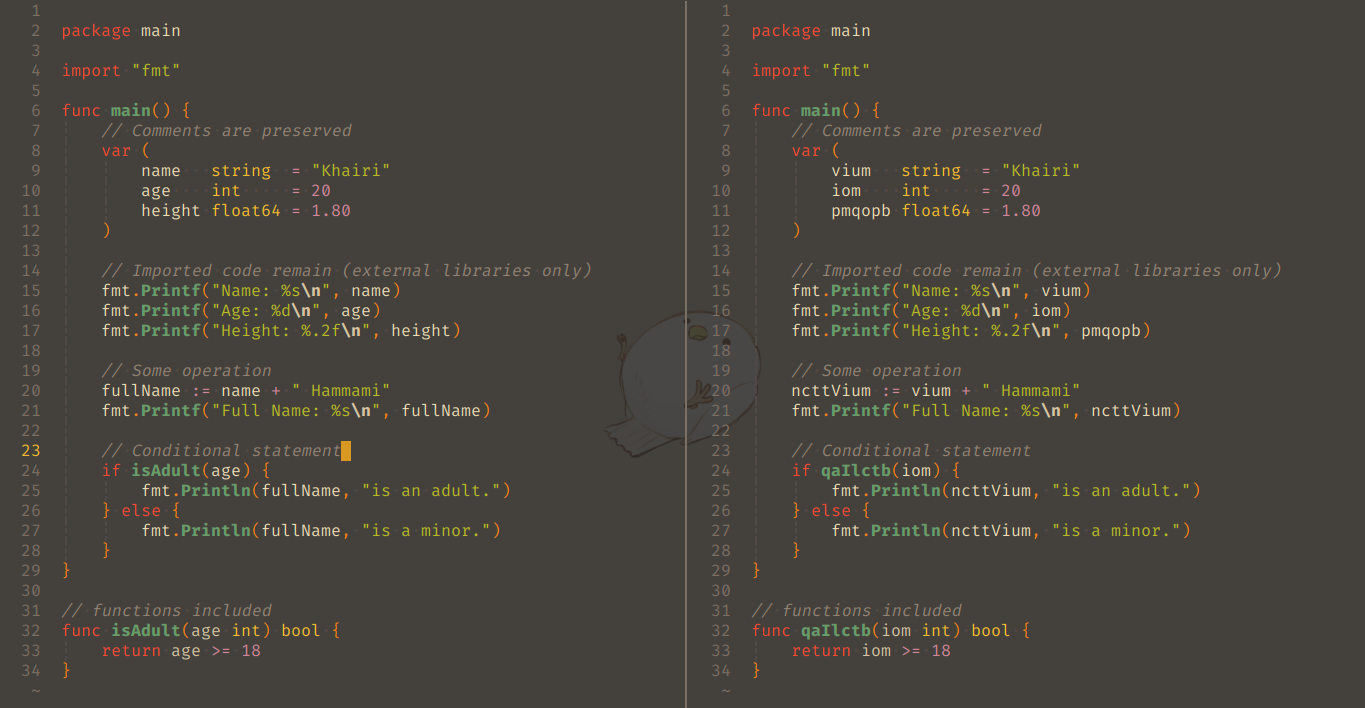
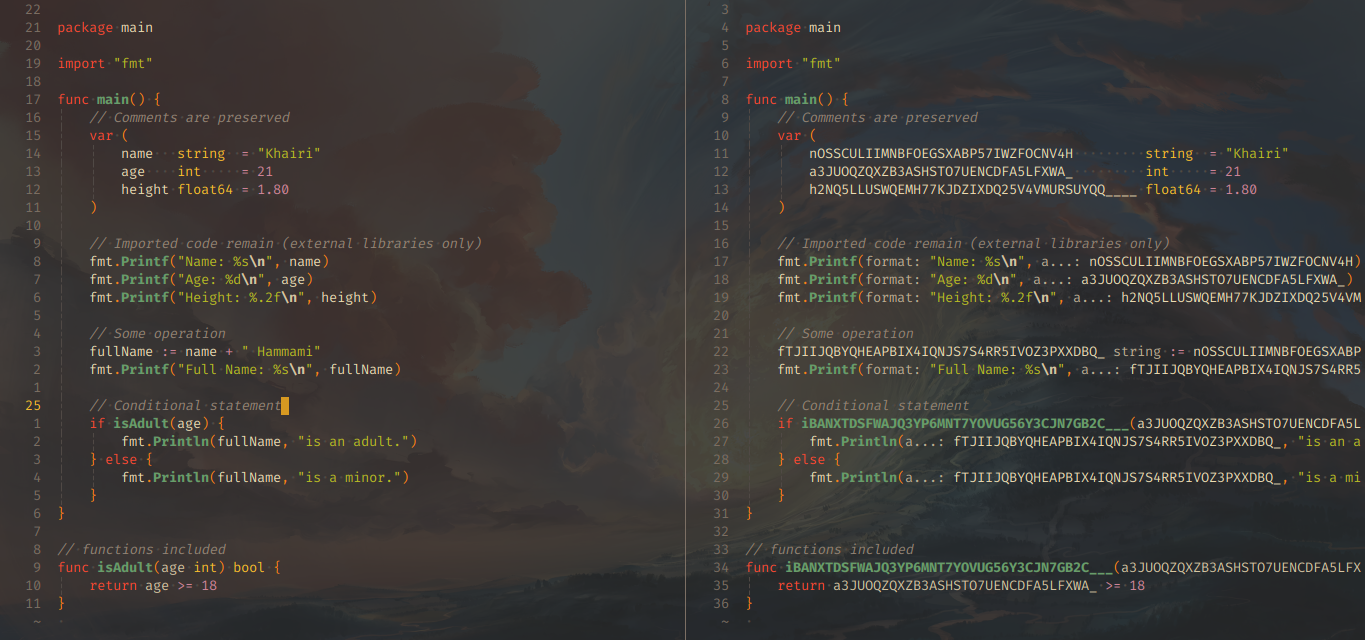
Upgrade encryption method to AES and added OS Signature

diff --git a/cmd/sourcefuck/Encrypter/encrypter.go b/cmd/sourcefuck/Encrypter/encrypter.go
@@ -1,62 +1,89 @@
 package encrypter
 
 import (
-	// "bytes"
-	// "fmt"
-	// "unicode"
-	// "crypto/aes"
-	// "crypto/cipher"
-	// "unicode"
-	. "github.com/hammamikhairi/sourcefuck/cmd/sourcefuck/Utils"
+	"crypto/aes"
+	"crypto/cipher"
+	"crypto/rand"
+	"encoding/base32"
+	"fmt"
+	"io"
+	"strings"
 )
 
-// TODO : for now i'm testing with caesar cipher, will change later
-
-// The count of unique letters in the English alphabet
-const ALPHA_LEN byte = 26
-
 type Encrypter struct {
-	key int
+	key []byte
 }
 
-func EncrypterInit(pwd int) *Encrypter {
+func EncrypterInit(key []byte) *Encrypter {
 	return &Encrypter{
-		key: pwd,
+		key,
 	}
 }
 
-func (c *Encrypter) Encrypt(plainText string) string {
-	cipherText := ""
-	for i := 0; i < len(plainText); i++ {
-		char := plainText[i]
+var (
+	buffer strings.Builder
+)
 
-		// Apply Caesar cipher, and maintain case of letters
-		if IsAlpha(char) {
-			A := byte('A')
-			if IsLower(char) {
-				A = 'a'
-			}
-			char = (char-A+byte(c.key))%ALPHA_LEN + A
-		}
-		cipherText += string(char)
-	}
-	return cipherText
+func customBase32Encode(data []byte) string {
+	encoder := base32.NewEncoder(base32.StdEncoding.WithPadding('_'), &buffer)
+	encoder.Write(data)
+	encoder.Close()
+
+	defer buffer.Reset()
+	return buffer.String()
 }
 
-func (c *Encrypter) Decrypt(cipherText string) string {
-	plainText := ""
-	for i := 0; i < len(cipherText); i++ {
-		char := cipherText[i]
+func customBase32Decode(encoded string) ([]byte, error) {
+	reader := strings.NewReader(encoded)
+	decoder := base32.NewDecoder(base32.StdEncoding.WithPadding('_'), reader)
 
-		// Apply Caesar cipher, and maintain case of letters
-		if IsAlpha(char) {
-			A := byte('A')
-			if IsLower(char) {
-				A = 'a'
-			}
-			char = (char-A+ALPHA_LEN-byte(c.key))%ALPHA_LEN + A
-		}
-		plainText += string(char)
+	_, err := io.Copy(&buffer, decoder)
+	if err != nil {
+		println(encoded)
+		fmt.Println("Decoding error:", err)
+		return nil, err
 	}
-	return plainText
+	defer buffer.Reset()
+	return []byte(buffer.String()), nil
+}
+
+func (c *Encrypter) Encrypt(text string) string {
+	block, err := aes.NewCipher(c.key)
+	if err != nil {
+		return ""
+	}
+
+	plaintext := []byte(text)
+	ciphertext := make([]byte, aes.BlockSize+len(plaintext))
+
+	iv := ciphertext[:aes.BlockSize]
+	if _, err := io.ReadFull(rand.Reader, iv); err != nil {
+		return ""
+	}
+
+	mode := cipher.NewCFBEncrypter(block, iv)
+	mode.XORKeyStream(ciphertext[aes.BlockSize:], plaintext)
+
+	return customBase32Encode(ciphertext)
+}
+
+func (c *Encrypter) Decrypt(ciphertext string) string {
+	ciphertextBytes, err := customBase32Decode(ciphertext)
+	if err != nil {
+		return ""
+	}
+
+	iv := ciphertextBytes[:aes.BlockSize]
+	ciphertextBytes = ciphertextBytes[aes.BlockSize:]
+
+	block, err := aes.NewCipher(c.key)
+	if err != nil {
+		return ""
+	}
+
+	stream := cipher.NewCFBDecrypter(block, iv)
+	plaintext := make([]byte, len(ciphertextBytes))
+	stream.XORKeyStream(plaintext, ciphertextBytes)
+
+	return string(plaintext)
 }

diff --git a/cmd/sourcefuck/Utils/utils.go b/cmd/sourcefuck/Utils/utils.go
@@ -1,11 +1,18 @@
 package utils
 
 import (
+	"crypto/rand"
+	"crypto/sha256"
+	"encoding/hex"
+	"fmt"
 	"log"
+	"net"
 	"os"
 	"path/filepath"
 	"strings"
 	"unicode"
+
+	"golang.org/x/crypto/hkdf"
 )
 
 // checks if the entire string is a single ASCII whitespace
@@ -148,6 +155,70 @@ func ProcessFlags(path, ext, OutDir string, dec bool) ([]string, string, string)
 		OutDirPath, _ = filepath.Abs(OutDir)
 	}
 
-	println("!=!", base)
 	return files, base, OutDirPath
+}
+
+func Get32BytesKey(key string, useOsSig bool) []byte {
+	var base []byte
+	if useOsSig {
+		base = getOsSignature()
+	} else {
+		if key != "" {
+			base, _ = hex.DecodeString(key)
+			Assert(len(base) == 32, "Key must be 32 bytes.")
+			return base
+		} else {
+			base = generateRandomKey()
+		}
+	}
+
+	hkdf := hkdf.New(sha256.New, base, nil, nil)
+	keyBytes := make([]byte, 32)
+	n, err := hkdf.Read(keyBytes)
+	if err != nil {
+		log.Fatal(err)
+		os.Exit(1)
+		return nil
+	}
+
+	if useOsSig {
+		fmt.Printf("[INFO] Using OS Signature as KEY [%x].\n", base)
+	} else {
+		fmt.Printf("[INFO] Using Generated KEY [%x].\n", base)
+	}
+	return keyBytes[:n]
+}
+
+func getOsSignature() []byte {
+	hostname, err := os.Hostname()
+	if err != nil {
+		log.Fatalf("Error getting hostname : %s", err)
+		os.Exit(1)
+	}
+
+	interfaces, err := net.Interfaces()
+	if err != nil {
+		log.Fatalf("Error getting network interfaces : %s", err)
+		os.Exit(1)
+	}
+
+	var macAddr string
+	for _, iface := range interfaces {
+		if len(iface.HardwareAddr) > 0 {
+			macAddr = iface.HardwareAddr.String()
+			break
+		}
+	}
+
+	return []byte(hostname + macAddr)
+}
+
+func generateRandomKey() []byte {
+	key := make([]byte, 32)
+	_, err := rand.Read(key)
+	if err != nil {
+		log.Fatal("Error generating random AES Key")
+		os.Exit(1)
+	}
+	return key
 }

diff --git a/main.go b/main.go
@@ -19,7 +19,8 @@ var (
 	ext       string
 	dec, peek bool
 	OutDir    string
-	key       int
+	userKey   string
+	useOsSig  bool
 
 	files            []string
 	base, OutDirPath string
@@ -32,7 +33,8 @@ func init() {
 	flag.BoolVar(&dec, "dec", false, "Specify this flag to decrypt an encrypted code using the provided key.")
 	flag.BoolVar(&peek, "peek", false, "Specify this flag to only print the obfuscated/decrypted code to the console.")
 	flag.StringVar(&OutDir, "out", "", "Specify the output directory for the obfuscated/decrypted code.")
-	flag.IntVar(&key, "key", 8, "The encryption/decryption key. (Default is 8)")
+	flag.BoolVar(&useOsSig, "osSig", false, "Use the OS signature as Enc/Dec Key")
+	flag.StringVar(&userKey, "key", "", "The encryption/decryption key. (A random key will be generated if unspecified)")
 	flag.Parse()
 
 	files, base, OutDirPath = ProcessFlags(path, ext, OutDir, dec)
@@ -64,6 +66,7 @@ func main() {
 		l.SetContent(string(b))
 		tokens := l.GetTokens()
 
+		key := Get32BytesKey(userKey, useOsSig)
 		pr := ParserInit(tokens, key)
 		pr.Parse(l, dec)
 		ParsedCode := l.FormatCode(tokens, &pr.Swap)
@@ -74,6 +77,7 @@ func main() {
 			continue
 		}
 
+		fmt.Printf("[INFO] Writing Code To %s", filepath.Join(OutDirPath, file))
 		WriteStringToFile(filepath.Join(OutDirPath, file), ParsedCode)
 	}
 }

diff --git a/cmd/sourcefuck/Parser/Parser.go b/cmd/sourcefuck/Parser/Parser.go
@@ -12,7 +12,7 @@ type Parser struct {
 	Enc    *Encrypter
 }
 
-func ParserInit(tokens *[]*Token, key int) *Parser {
+func ParserInit(tokens *[]*Token, key []byte) *Parser {
 	return &Parser{
 		tokens,
 		make(map[string]string),
@@ -33,9 +33,9 @@ func (pr *Parser) Parse(l *Lexer, decrypt bool) {
 
 		if _, ok := pr.Swap[token_content]; token.Kind == TOKEN_IMPORTED && !ok {
 			if decrypt {
-				enc = pr.Enc.Decrypt(token_content)
+				enc = pr.Enc.Decrypt(token_content[1:])
 			} else {
-				enc = pr.Enc.Encrypt(token_content)
+				enc = string(token_content[0]) + pr.Enc.Encrypt(token_content)
 			}
 			for i+1 < tokens_len && l.GetTokenContent(tokens[i+1]) == "." {
 				i += 2
@@ -45,9 +45,9 @@ func (pr *Parser) Parse(l *Lexer, decrypt bool) {
 
 		if token.Kind == TOKEN_SYMBOL {
 			if decrypt {
-				enc = pr.Enc.Decrypt(token_content)
+				enc = pr.Enc.Decrypt(token_content[1:])
 			} else {
-				enc = pr.Enc.Encrypt(token_content)
+				enc = string(token_content[0]) + pr.Enc.Encrypt(token_content)
 			}
 			pr.Swap[token_content] = enc
 		}

diff --git a/README.md b/README.md
@@ -30,31 +30,38 @@ sourcefuck --path [path/to/your/code] --ext [file_extension] --key [encryption_k
 
 * `--path` : Specifies the path to your file or directory that you want to obfuscate or decrypt.
 * `--ext` : (Optional for directories) Specifies the file extension of the targeted files within the directory (only `go` is supported now but will add more languages in future versions).
-* `--key` : Specifies the encryption/decryption key. The default key is 8 if not specified. The current encryption method used is the Caesar cipher. Future versions of SourceFuck will incorporate a more advanced encryption algorithm.
+* `--key` : Specifies the encryption/decryption key. SourceFuck currently uses AES for encryption, there for the key must be 32 bytes long. (if not specified, a random one will be generated and printed to the screen).
+* `--osSig` : (Optional) Use the OS signature as Enc/Dec Key.
 * `--out` : (Optional) Specifies the output directory for the obfuscated or decrypted code. If not provided, the encrypted/decrypted code will be written to either [path/to/your/code]/Dec or [path/to/your/code]/Enc depending on the usage.
 * `--dec` : (Optional) Indicates that the operation is decryption instead of obfuscation. If specified, the tool will decrypt the encrypted code.
 
 ### Examples:
 
-* Obfuscating a single file:
+* Obfuscating a single file using a Key:
 
 ```bash
-sourcefuck --path /path/to/your/code/main.go --key 9
[1 lines of base64/hex data omitted]
+```
+
+* Obfuscating a single file using the OS Signature as Key:
+
+```bash
+sourcefuck --path /path/to/your/code/main.go --osSig
 ```
 
 * Obfuscating a directory of files with the ".go" extension:
 ```bash
-sourcefuck --path /path/to/your/code/ --ext go --key 9
+sourcefuck --path /path/to/your/code/ --ext go --osSig
 ```
 
 * Decrypting a directory of files with the ".go" extension:
 ```bash
-sourcefuck --path /path/to/your/code/ --ext go --key 9 --dec
+sourcefuck --path /path/to/your/code/ --ext go --osSig --dec
 ```
 
 * Obfuscating a directory and specifying the output directory:
 ```bash
-sourcefuck --path /path/to/your/code/ --ext go --key 9 --out /path/to/out/
+sourcefuck --path /path/to/your/code/ --ext go --osSig --out /path/to/out/
 ```
 
 Note: When decrypting, the encrypted files should be present in the specified path or directory.
